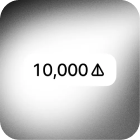
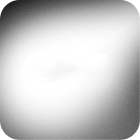
fix: collect-item background

Changed region(s): [[0.2286, 0.4286, 0.7429, 0.5714], [0.7429, 0.4571, 0.8286, 0.6286]]

diff --git a/app/connected/page.tsx b/app/connected/page.tsx
@@ -91,13 +91,12 @@ export default function Connected() {
           </div>
           <div className="collectable-content flex justify-between mt-4 gap-x-2">
             <div className="collect-item flex flex-col pb-2 rounded-[19.6px] gap-y-2 items-center bg-donate-card-bg">
-              <Image
-                src={"/assets/collect.png"}
-                width={139.85}
-                height={139.85}
-                alt="collect"
-                className="rounded-[19.6px]"
-              />
+              <div className="w-[140px] h-[140px] flex flex-col justify-center items-center bg-radial">
+                <div className="bg-white py-2 px-3 flex gap-x-1 rounded-lg items-center">
+                  <div className="font-semibold text-sm text-donate-text-dark">10,000</div>
+                  <Image src={"/assets/ton.jpg"} width={12} height={12} alt="collect" className="-mt-1" />
+                </div>
+              </div>
               <div>
                 <div className={`${montserrat.className} font-semibold text-donate-menu-active text-[9px]/[8px]`}>
                   10,000 NOT VOUCHER
@@ -110,22 +109,19 @@ export default function Connected() {
               </div>
             </div>
             <div className="collect-item flex flex-col pb-2 rounded-[19.6px] gap-y-2 items-center bg-donate-card-bg">
-              <Image
-                src={"/assets/collect.png"}
-                width={139.85}
-                height={139.85}
-                alt="collect"
-                className="rounded-[19.6px]"
-              />
-              <div>
-                <div className={`${montserrat.className} font-semibold text-donate-menu-active text-[9px]/[8px]`}>
-                  10,000 NOT VOUCHER
+              <div className="w-[140px] h-[140px] flex flex-col justify-center items-center bg-radial">
+                <div className="bg-white py-2 px-3 flex gap-x-1 rounded-lg items-center">
+                  <div className="font-semibold text-sm text-donate-text-dark">10,000</div>
+                  <Image src={"/assets/ton.jpg"} width={12} height={12} alt="collect" className="-mt-1" />
                 </div>
-                <div
-                  className={`${montserrat.className} font-normal text-donate-menu-active/40 text-[9px]/[8px] text-center mt-[4px]`}
-                >
-                  NFT
-                </div>
+              </div>
+              <div className={`${montserrat.className} font-semibold text-donate-menu-active text-[9px]/[8px]`}>
+                10,000 NOT VOUCHER
+              </div>
+              <div
+                className={`${montserrat.className} font-normal text-donate-menu-active/40 text-[9px]/[8px] text-center mt-[4px]`}
+              >
+                NFT
               </div>
             </div>
           </div>

diff --git a/app/layout.tsx b/app/layout.tsx
@@ -1,5 +1,4 @@
 import type { Metadata } from "next";
-import Header from "@/components/Header";
 import { Poppins } from "next/font/google";
 import "./globals.css";
 
@@ -19,7 +18,7 @@ export default function RootLayout({
       <body className={poppins.className}>
         <div className="h-screen w-screen bg-donate-bg pt-[55px] relative">
           <div className="w-full px-[19px]">
-            <Header />
+            {/* <Header /> */}
             {children}
           </div>
         </div>

diff --git a/app/globals.css b/app/globals.css
@@ -18,16 +18,15 @@
 
 body {
   color: rgb(var(--foreground-rgb));
-  background: linear-gradient(
-      to bottom,
-      transparent,
-      rgb(var(--background-end-rgb))
-    )
-    rgb(var(--background-start-rgb));
+  background: linear-gradient(to bottom, transparent, rgb(var(--background-end-rgb))) rgb(var(--background-start-rgb));
 }
 
 @layer utilities {
   .text-balance {
     text-wrap: balance;
   }
+}
+
+.bg-radial {
+  background-image: url("/assets/collect.png");
 }
